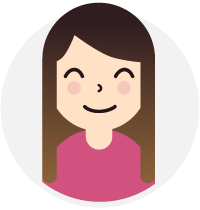
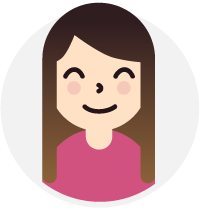
thicker lines

diff --git a/index.html b/index.html
@@ -34,7 +34,7 @@ i like cats :3 <3
     <div id="particles-js"></div>
 
     <div id="intro">
-      <img id="avatar" class="animated fadeInDown" src="assets/avatar.png" />
+      <img id="avatar" class="animated fadeInDown" src="assets/avatar2.png" />
       <h1 id="name" class="animated fadeInDown">Yolanda Zhou</h1>
       <p id="desc" class="animated fadeIn">I love to <span class="type"></span></p>
       <div id="buttons" class="animated fadeInUp">
